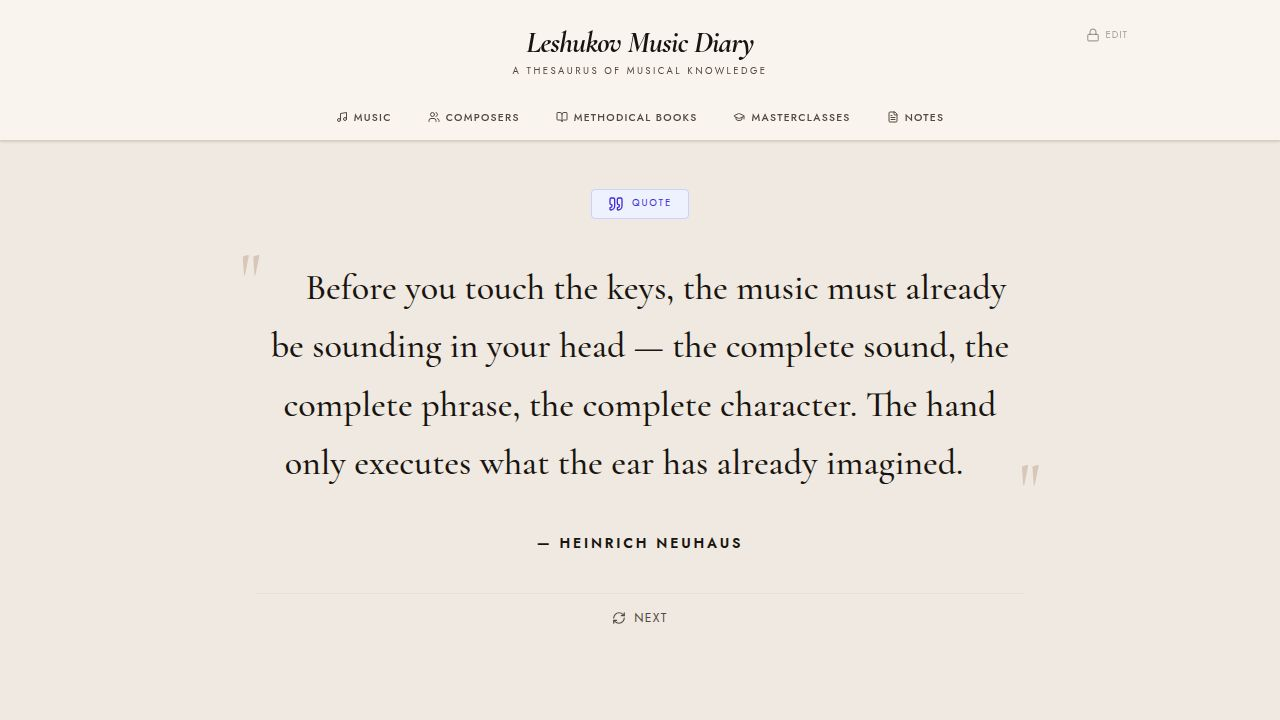
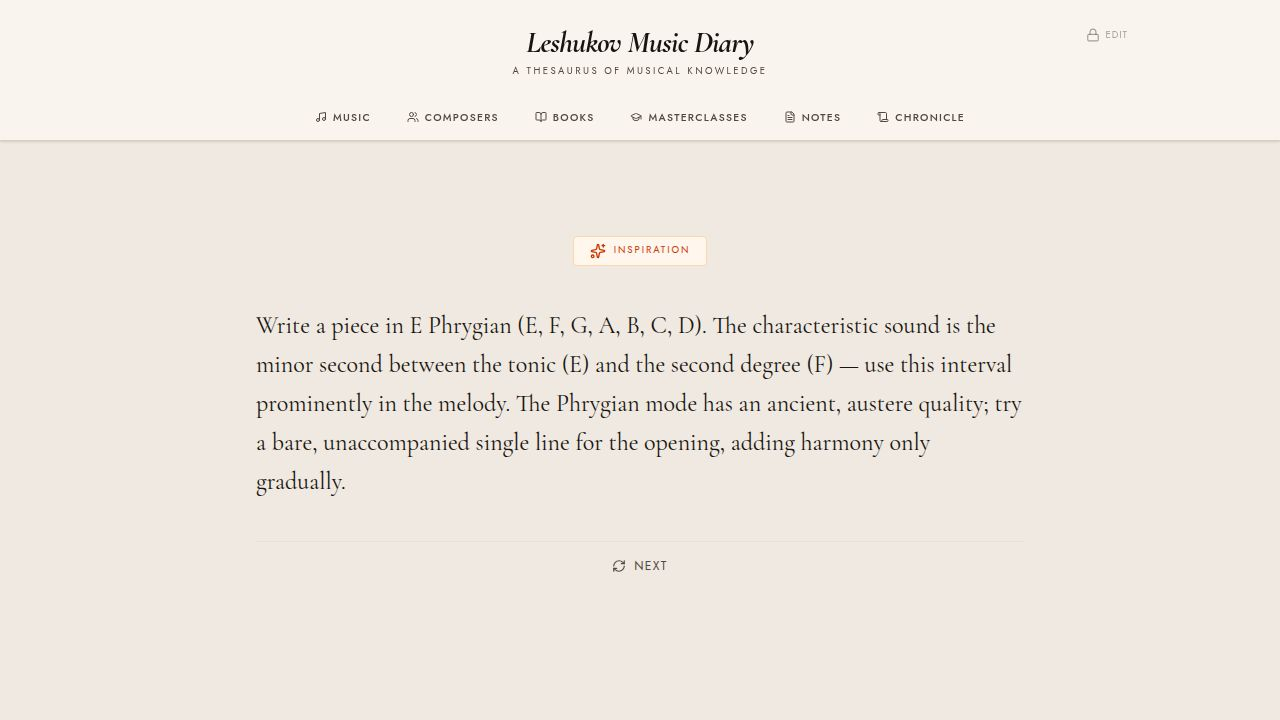
Add a progress timeline to track daily learning activities
Add a new route and navigation item for the Chronicle page, which aggregates and displays user progress by date.

Replit-Commit-Author: Agent
Replit-Commit-Session-Id: 4d2bab2b-e87f-4b2c-a771-13a284dfecef
Replit-Commit-Checkpoint-Type: full_checkpoint
Replit-Commit-Event-Id: 8918a891-61a2-4cc7-8de7-694152e5d4f0
Replit-Commit-Screenshot-Url: https://storage.googleapis.com/screenshot-production-us-central1/188ed534-bfc6-4e64-8903-b61790fff0bf/4d2bab2b-e87f-4b2c-a771-13a284dfecef/jxAWBGM
Replit-Helium-Checkpoint-Created: true

diff --git a/artifacts/music-notebook/src/pages/Chronicle.tsx b/artifacts/music-notebook/src/pages/Chronicle.tsx
@@ -1,134 +1,170 @@
-import { useState, useEffect } from "react";
+import { useMemo } from "react";
 import { Link } from "wouter";
-import { useListNotes, useCreateNote, getListNotesQueryKey } from "@workspace/api-client-react";
-import { useQueryClient } from "@tanstack/react-query";
-import { useAuth } from "@/hooks/use-auth";
-import { Modal } from "@/components/ui/modal";
-import { NoteForm } from "@/components/Forms";
-import { Plus, ScrollText } from "lucide-react";
+import {
+  useListNotes,
+  useListPieces,
+  useListComposers,
+  useListBooks,
+} from "@workspace/api-client-react";
 import { format, isToday, isYesterday, parseISO } from "date-fns";
+import { ru } from "date-fns/locale";
+import { Music, Users, BookOpen, GraduationCap, FileText, Scroll } from "lucide-react";
+
+type EventKind = "piece" | "composer" | "book" | "masterclass" | "note";
+
+interface ActivityEvent {
+  id: number;
+  kind: EventKind;
+  title: string;
+  subtitle?: string;
+  href: string;
+  date: string;
+}
+
+const KIND_META: Record<EventKind, { label: string; Icon: React.FC<{ className?: string }>; color: string }> = {
+  piece:       { label: "Произведение",  Icon: Music,         color: "text-amber-700" },
+  composer:    { label: "Композитор",    Icon: Users,         color: "text-stone-600" },
+  book:        { label: "Книга",         Icon: BookOpen,      color: "text-emerald-700" },
+  masterclass: { label: "Мастеркласс",  Icon: GraduationCap, color: "text-blue-700" },
+  note:        { label: "Заметка",       Icon: FileText,      color: "text-rose-700" },
+};
+
+function formatDateLabel(dateStr: string): string {
+  const d = parseISO(dateStr);
+  if (isToday(d))     return `Сегодня — ${format(d, "d MMMM yyyy", { locale: ru })}`;
+  if (isYesterday(d)) return `Вчера — ${format(d, "d MMMM yyyy", { locale: ru })}`;
+  return format(d, "EEEE, d MMMM yyyy", { locale: ru });
+}
 
 export default function ChroniclePage() {
-  const { data: allNotes, isLoading } = useListNotes();
-  const { isEditing } = useAuth();
-  const [isAddModalOpen, setIsAddModalOpen] = useState(false);
-  const queryClient = useQueryClient();
-  const createNote = useCreateNote();
+  const { data: notes,      isLoading: ln } = useListNotes();
+  const { data: pieces,     isLoading: lp } = useListPieces();
+  const { data: composers,  isLoading: lc } = useListComposers();
+  const { data: books,      isLoading: lb } = useListBooks();
 
-  const notes = allNotes?.filter(n => n.section === "chronicle") ?? [];
+  const isLoading = ln || lp || lc || lb;
 
-  const todayStr = format(new Date(), "yyyy-MM-dd");
-  const hasTodayEntry = notes.some(n => {
-    if (!n.createdAt) return false;
-    return format(parseISO(n.createdAt), "yyyy-MM-dd") === todayStr;
-  });
+  const groupedByDate = useMemo(() => {
+    const events: ActivityEvent[] = [];
 
-  useEffect(() => {
-    if (!isLoading && isEditing && !hasTodayEntry) {
-      const autoCreate = async () => {
-        await createNote.mutateAsync({
-          data: {
-            title: format(new Date(), "MMMM d, yyyy"),
-            section: "chronicle",
-            chapterTitle: "Today's Entry",
-            content: "",
-            imageUrl: "",
-            sortOrder: 0,
-          }
-        });
-        queryClient.invalidateQueries({ queryKey: getListNotesQueryKey() });
-      };
-      autoCreate();
-    }
-  }, [isLoading, isEditing]);
+    (pieces ?? []).forEach(p => {
+      if (!p.createdAt) return;
+      events.push({ id: p.id, kind: "piece", title: p.title, subtitle: p.composerName ?? undefined, href: `/pieces/${p.id}`, date: p.createdAt.slice(0, 10) });
+    });
 
-  if (isLoading) return <div className="text-center py-20 font-serif italic text-muted-foreground">Loading chronicle...</div>;
+    (composers ?? []).forEach(c => {
+      if (!c.createdAt) return;
+      events.push({ id: c.id, kind: "composer", title: c.name, href: `/composers/${c.id}`, date: c.createdAt.slice(0, 10) });
+    });
 
-  const groupedByDate = notes.reduce((acc, note) => {
-    const dateKey = note.createdAt ? format(parseISO(note.createdAt), "yyyy-MM-dd") : "unknown";
-    if (!acc[dateKey]) acc[dateKey] = [];
-    acc[dateKey].push(note);
-    return acc;
-  }, {} as Record<string, typeof notes>);
+    (books ?? []).forEach(b => {
+      if (!b.createdAt) return;
+      events.push({ id: b.id, kind: "book", title: b.title, subtitle: b.author ?? undefined, href: `/books/${b.id}`, date: b.createdAt.slice(0, 10) });
+    });
+
+    (notes ?? []).forEach(n => {
+      if (!n.createdAt) return;
+      const kind: EventKind = n.section === "masterclasses" ? "masterclass" : "note";
+      const href = n.section === "masterclasses" ? `/masterclasses/${n.id}` : `/notes`;
+      events.push({ id: n.id, kind, title: n.title, href, date: n.createdAt.slice(0, 10) });
+    });
+
+    const grouped: Record<string, ActivityEvent[]> = {};
+    events.forEach(ev => {
+      if (!grouped[ev.date]) grouped[ev.date] = [];
+      grouped[ev.date].push(ev);
+    });
+    return grouped;
+  }, [notes, pieces, composers, books]);
 
   const sortedDates = Object.keys(groupedByDate).sort((a, b) => b.localeCompare(a));
 
-  const formatDateLabel = (dateStr: string) => {
-    if (dateStr === "unknown") return "Unknown Date";
-    const d = parseISO(dateStr);
-    if (isToday(d)) return `Today — ${format(d, "MMMM d, yyyy")}`;
-    if (isYesterday(d)) return `Yesterday — ${format(d, "MMMM d, yyyy")}`;
-    return format(d, "EEEE, MMMM d, yyyy");
-  };
+  if (isLoading) {
+    return <div className="text-center py-20 font-serif italic text-muted-foreground">Листаю страницы...</div>;
+  }
 
   return (
-    <div className="animate-in fade-in duration-500">
-      <div className="flex items-center justify-between mb-10">
-        <h2 className="font-serif italic text-3xl text-foreground">Chronicle</h2>
-        {isEditing && (
-          <button onClick={() => setIsAddModalOpen(true)} className="flex items-center gap-2 text-xs font-sans font-semibold uppercase tracking-widest text-primary hover:opacity-80 transition-opacity">
-            <Plus className="w-4 h-4" /> New Entry
-          </button>
-        )}
+    <div className="animate-in fade-in duration-500 max-w-2xl mx-auto">
+      <div className="mb-10">
+        <h2 className="font-serif italic text-3xl text-foreground">Хроника</h2>
+        <p className="font-sans text-xs uppercase tracking-widest text-muted-foreground mt-1">
+          Твой прогресс по дням
+        </p>
       </div>
 
       {sortedDates.length === 0 ? (
-        <div className="text-center py-20 border border-dashed border-border rounded-sm bg-card/50">
-          <ScrollText className="w-8 h-8 mx-auto text-muted-foreground mb-4 opacity-50" />
-          <p className="font-serif italic text-muted-foreground text-lg">The chronicle is empty.</p>
-          {isEditing && (
-            <p className="font-sans text-xs uppercase tracking-widest text-muted-foreground mt-2 opacity-60">
-              A new entry will be created automatically when you next log in.
-            </p>
-          )}
+        <div className="text-center py-24 border border-dashed border-border rounded-sm bg-card/50">
+          <Scroll className="w-8 h-8 mx-auto text-muted-foreground mb-4 opacity-40" />
+          <p className="font-serif italic text-muted-foreground text-lg">
+            Пока ничего не добавлено.
+          </p>
+          <p className="font-sans text-xs uppercase tracking-widest text-muted-foreground mt-2 opacity-50">
+            Добавляй произведения, композиторов, заметки — и они появятся здесь
+          </p>
         </div>
       ) : (
         <div className="relative">
-          <div className="absolute left-0 top-0 bottom-0 w-px bg-border/40 ml-[6.5rem] hidden md:block" />
+          <div className="absolute left-[5.5rem] top-0 bottom-0 w-px bg-border/30 hidden md:block" />
+
           <div className="space-y-10">
-            {sortedDates.map((dateKey) => (
-              <div key={dateKey} className="md:flex gap-8">
-                <div className="md:w-24 flex-shrink-0 mb-3 md:mb-0 text-right">
-                  <span className={`text-[0.6rem] font-sans font-semibold uppercase tracking-[0.15em] ${isToday(parseISO(dateKey)) ? "text-primary" : "text-muted-foreground"}`}>
-                    {isToday(parseISO(dateKey)) ? (
-                      <>Today<br /><span className="normal-case tracking-normal text-[0.6rem]">{format(parseISO(dateKey), "MMM d")}</span></>
-                    ) : format(parseISO(dateKey), "MMM d")}
-                  </span>
+            {sortedDates.map(dateKey => {
+              const dayEvents = groupedByDate[dateKey];
+              const isNow = isToday(parseISO(dateKey));
+              return (
+                <div key={dateKey} className="md:flex gap-0">
+                  <div className="md:w-24 flex-shrink-0 mb-3 md:mb-0 text-right pr-0 md:pr-5">
+                    <span className={`text-[0.58rem] font-sans font-semibold uppercase tracking-[0.15em] leading-tight block ${isNow ? "text-primary" : "text-muted-foreground/70"}`}>
+                      {isNow ? (
+                        <>Сегодня<br /><span className="normal-case tracking-normal opacity-70">{format(parseISO(dateKey), "d MMM", { locale: ru })}</span></>
+                      ) : (
+                        format(parseISO(dateKey), "d MMM", { locale: ru })
+                      )}
+                    </span>
+                  </div>
+
+                  <div className="relative md:pl-8 flex-1">
+                    <div className={`absolute left-0 top-2 w-2.5 h-2.5 rounded-full hidden md:block border-2 ${isNow ? "bg-primary border-primary" : "bg-background border-border/60"}`} />
+
+                    <p className="font-serif italic text-xs text-muted-foreground mb-3 capitalize">
+                      {formatDateLabel(dateKey)}
+                    </p>
+
+                    <div className="space-y-2">
+                      {dayEvents.map(ev => {
+                        const meta = KIND_META[ev.kind];
+                        return (
+                          <Link key={`${ev.kind}-${ev.id}`} href={ev.href}>
+                            <div className="group flex items-center gap-3 bg-card notebook-border px-4 py-3 hover:bg-muted/20 transition-colors cursor-pointer">
+                              <meta.Icon className={`w-3.5 h-3.5 flex-shrink-0 ${meta.color} opacity-70`} />
+                              <div className="flex-1 min-w-0">
+                                <span className="font-serif text-foreground text-sm group-hover:text-primary transition-colors">
+                                  {ev.title}
+                                </span>
+                                {ev.subtitle && (
+                                  <span className="font-sans text-muted-foreground text-xs ml-2">
+                                    — {ev.subtitle}
+                                  </span>
+                                )}
+                              </div>
+                              <span className={`text-[0.55rem] font-sans uppercase tracking-widest flex-shrink-0 ${meta.color} opacity-50`}>
+                                {meta.label}
+                              </span>
+                            </div>
+                          </Link>
+                        );
+                      })}
+                    </div>
+
+                    <p className="font-sans text-[0.6rem] text-muted-foreground/40 mt-2 tracking-wide">
+                      {dayEvents.length} {dayEvents.length === 1 ? "запись" : dayEvents.length < 5 ? "записи" : "записей"}
+                    </p>
+                  </div>
                 </div>
-                <div className="relative md:pl-8 flex-1 space-y-4">
-                  <div className="absolute left-0 top-2 w-3 h-3 rounded-full bg-background border-2 border-primary/40 hidden md:block" />
-                  {groupedByDate[dateKey].map((note) => (
-                    <Link key={note.id} href={`/notes/${note.id}`} className="group block">
-                      <article className="bg-card notebook-border p-5 hover:bg-muted/30 hover:shadow-md transition-all">
-                        <div className="font-serif font-bold text-xl text-foreground group-hover:text-primary transition-colors mb-1">
-                          {note.title}
-                        </div>
-                        {note.chapterTitle && (
-                          <div className="font-sans text-[0.65rem] uppercase tracking-widest text-muted-foreground mb-2">{note.chapterTitle}</div>
-                        )}
-                        {note.content ? (
-                          <p className="font-serif italic text-muted-foreground text-sm line-clamp-2 leading-relaxed">
-                            {note.content.replace(/<[^>]*>?/gm, "")}
-                          </p>
-                        ) : (
-                          <p className="font-serif italic text-muted-foreground/40 text-sm">No content yet...</p>
-                        )}
-                        <div className="mt-3 text-[0.6rem] font-sans uppercase tracking-widest text-muted-foreground group-hover:text-primary transition-colors">
-                          Open entry →
-                        </div>
-                      </article>
-                    </Link>
-                  ))}
-                </div>
-              </div>
-            ))}
+              );
+            })}
           </div>
         </div>
       )}
-
-      <Modal isOpen={isAddModalOpen} onClose={() => setIsAddModalOpen(false)} title="New Chronicle Entry">
-        <NoteForm defaultSection="chronicle" onSuccess={() => setIsAddModalOpen(false)} />
-      </Modal>
     </div>
   );
 }

diff --git a/artifacts/music-notebook/src/components/Layout.tsx b/artifacts/music-notebook/src/components/Layout.tsx
@@ -1,5 +1,5 @@
 import { Link, useLocation } from "wouter";
-import { Lock, Unlock, Music, Users, BookOpen, GraduationCap, FileText } from "lucide-react";
+import { Lock, Unlock, Music, Users, BookOpen, GraduationCap, FileText, Scroll } from "lucide-react";
 import { useAuth } from "@/hooks/use-auth";
 import { useState, useRef } from "react";
 import { Modal } from "./ui/modal";
@@ -8,9 +8,10 @@ import { cn } from "@/lib/utils";
 const NAV_ITEMS = [
   { href: "/pieces", label: "Music", icon: Music },
   { href: "/composers", label: "Composers", icon: Users },
-  { href: "/books", label: "Methodical Books", icon: BookOpen },
+  { href: "/books", label: "Books", icon: BookOpen },
   { href: "/masterclasses", label: "Masterclasses", icon: GraduationCap },
   { href: "/notes", label: "Notes", icon: FileText },
+  { href: "/chronicle", label: "Chronicle", icon: Scroll },
 ];
 
 export function Layout({ children }: { children: React.ReactNode }) {

diff --git a/artifacts/music-notebook/src/App.tsx b/artifacts/music-notebook/src/App.tsx
@@ -23,6 +23,7 @@ const BooksPage          = lazy(() => import("@/pages/Books"));
 const BookDetailPage     = lazy(() => import("@/pages/BookDetail"));
 const MasterclassesPage  = lazy(() => import("@/pages/Masterclasses"));
 const MasterclassDetailPage = lazy(() => import("@/pages/MasterclassDetail"));
+const ChroniclePage      = lazy(() => import("@/pages/Chronicle"));
 
 const queryClient = new QueryClient({
   defaultOptions: {
@@ -78,6 +79,8 @@ function Router() {
 
         <Route path="/notes" component={NotesPage} />
         <Route path="/notes/:id" component={NoteDetailPage} />
+
+        <Route path="/chronicle" component={ChroniclePage} />
 
         <Route>
           <div className="text-center py-32 font-serif text-2xl italic text-muted-foreground">
